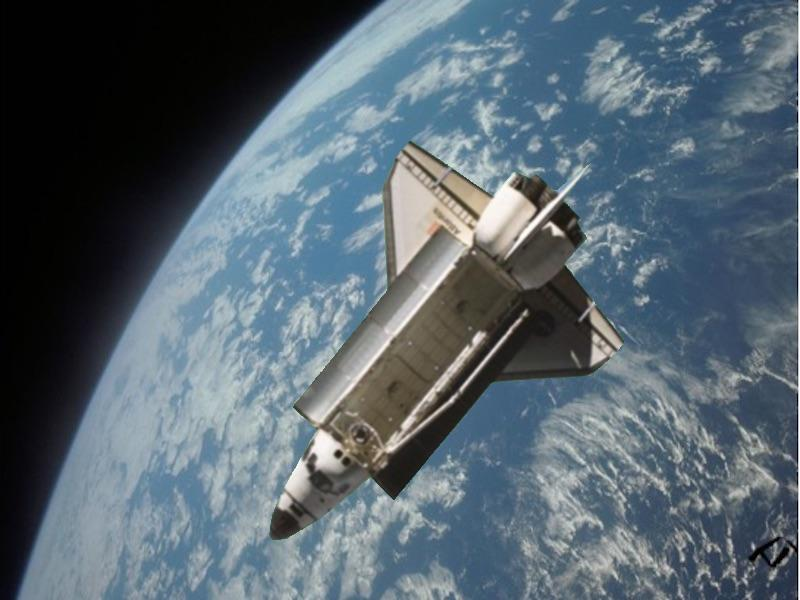
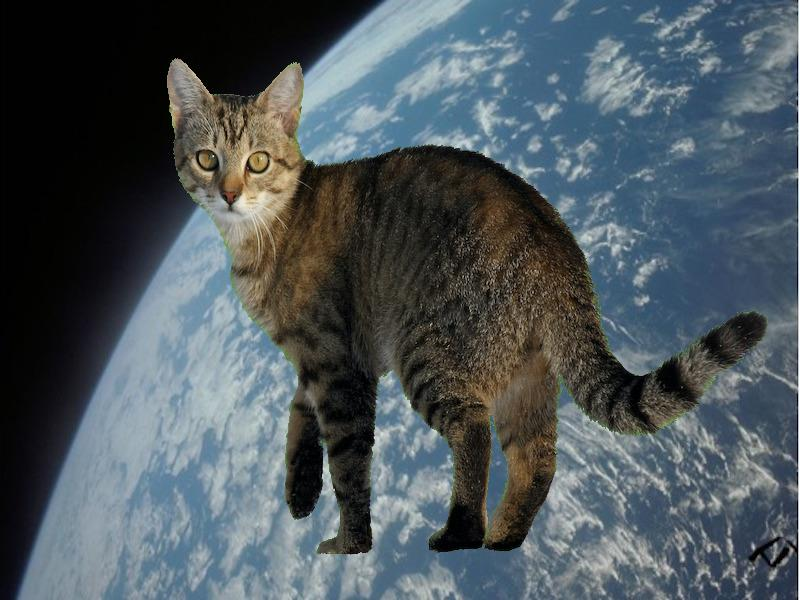
adding pictures to w08 directory

Changed region(s): [[0.1875, 0.09, 0.9688, 0.93], [0.7188, 0.27, 0.75, 0.3]]

diff --git a/CSEPC_110/W08/08_prove_milestone.py b/CSEPC_110/W08/08_prove_milestone.py
@@ -2,9 +2,33 @@ import os
 os.system("clear")
 from PIL import Image
 
+#FORMATTING
+u = "\033[4m"
+b = "\033[1m"
+i = "\033[3m"
+Black = "\u001b[30m"
+Red = "\u001b[31m"
+Green = "\u001b[32m"
+Yellow = "\u001b[33m"
+Blue = "\u001b[34m"
+Magenta = "\u001b[35m"
+Cyan = "\u001b[36m"
+White = "\u001b[37m"
+Reset = "\u001b[0m"
+
+#ARRAY STUFF
+foreground_images = ["harvester","cactus","cat_small","cat","hiker","penguin","boat","spaceshuttle",]
+background_images = ["earth","snowscape","desert","field","forest","sunset",]
+
+#PRINT USER INPUT
+print(f"{Green}{foreground_images}{Reset}\n")
+user_foreground = input("pick a foreground image: ")
+print(f"{Blue}{background_images}{Reset}\n")
+user_background = input("pick a background image: ")
+
 #IMAGES
-BG_image = Image.open("earth.jpg")
-FG_image = Image.open("spaceshuttle.jpg")
+BG_image = Image.open(f"{user_background}.jpg")
+FG_image = Image.open(f"{user_foreground}.jpg")
 image_combined = Image.new("RGB", FG_image.size)
 FG_pixels = FG_image.load()
 BG_pixels = BG_image.load()
